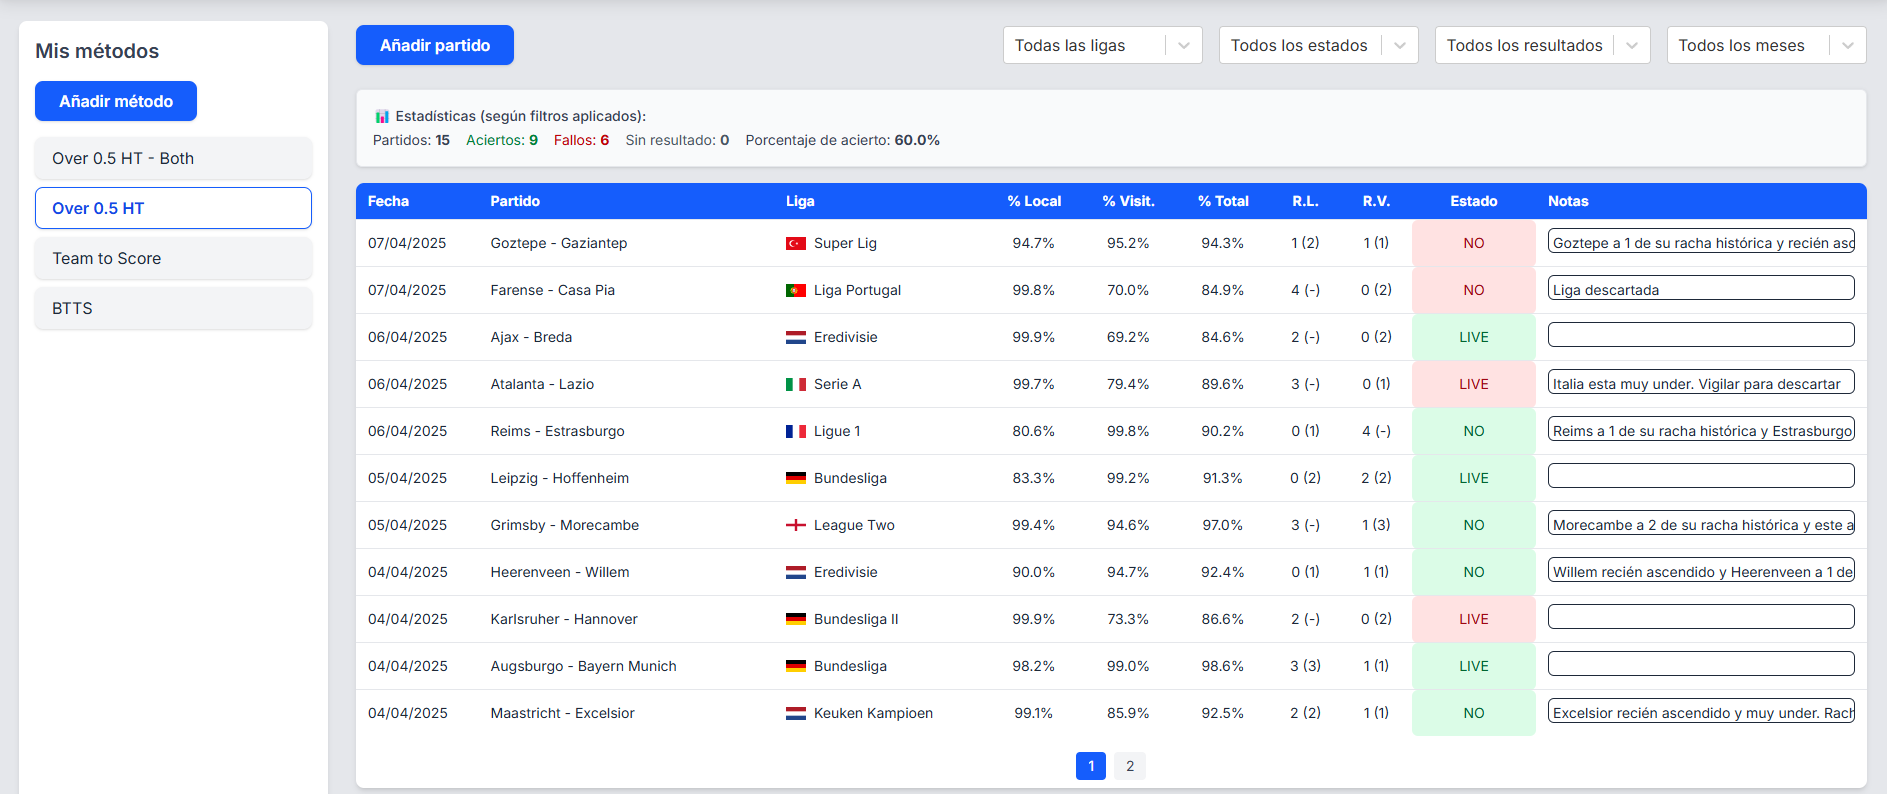
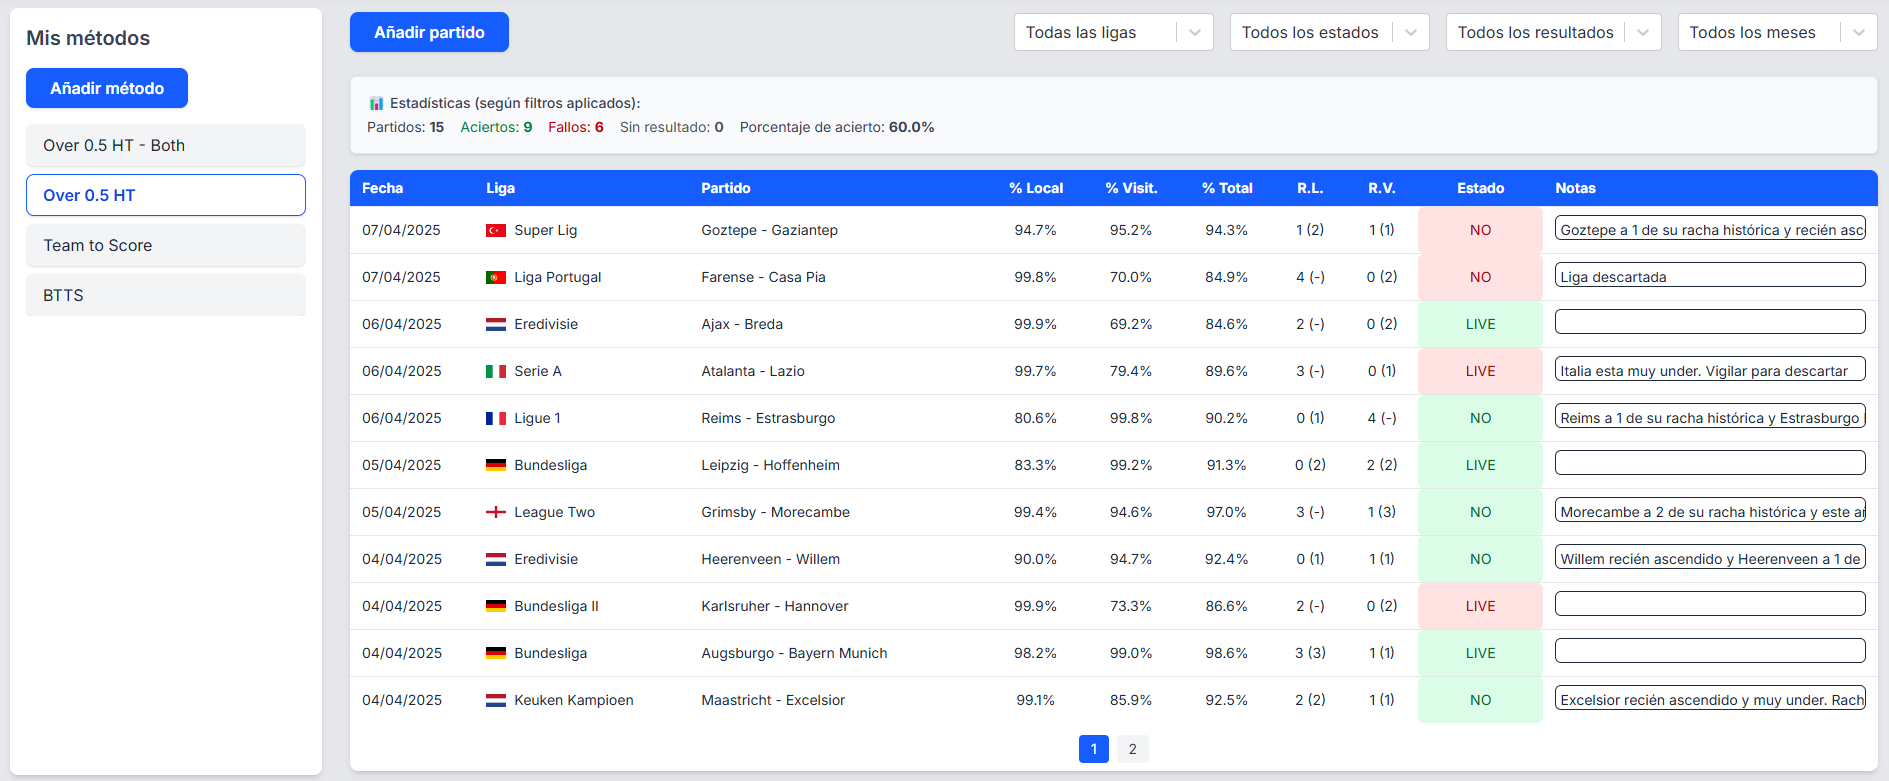
modificado scroll y vistas analisispage

diff --git a/frontend/src/components/MetodosList.tsx b/frontend/src/components/MetodosList.tsx
@@ -36,25 +36,28 @@ export default function MetodosList() {
       >
         Añadir método
       </button>
-      <ul className="space-y-2">
-        {metodos.map((metodo) => {
-          const isSelected = metodoSeleccionado?.id === metodo.id;
-          return (
-            <li key={metodo.id}>
-              <button
-                className={`w-full text-left px-4 py-2 rounded-lg shadow-sm border transition duration-200 ${
-                  isSelected
-                    ? "border-blue-600 text-blue-700 font-semibold bg-white shadow"
-                    : "bg-gray-100 text-gray-800 hover:bg-gray-200 border-transparent"
-                }`}
-                onClick={() => handleSelectMetodo(metodo)}
-              >
-                {metodo.nombre}
-              </button>
-            </li>
-          );
-        })}
-      </ul>
+      {/* Contenedor con scroll */}
+      <div className="max-h-150 overflow-y-auto space-y-2">
+        <ul className="space-y-2">
+          {metodos.map((metodo) => {
+            const isSelected = metodoSeleccionado?.id === metodo.id;
+            return (
+              <li key={metodo.id}>
+                <button
+                  className={`w-full text-left px-4 py-2 rounded-lg shadow-sm border transition duration-200 ${
+                    isSelected
+                      ? "border-blue-600 text-blue-700 font-semibold bg-white shadow"
+                      : "bg-gray-100 text-gray-800 hover:bg-gray-200 border-transparent"
+                  }`}
+                  onClick={() => handleSelectMetodo(metodo)}
+                >
+                  {metodo.nombre}
+                </button>
+              </li>
+            );
+          })}
+        </ul>
+      </div>
 
       <MetodoFormModal
         isOpen={showModalMetodo}

diff --git a/frontend/src/components/AnalisisWrapper.tsx b/frontend/src/components/AnalisisWrapper.tsx
@@ -17,12 +17,14 @@ function PartidosConMetodo() {
 export default function AnalisisWrapper() {
   return (
     <MetodoProvider>
-      <div className="flex flex-col xl:flex-row min-h-screen bg-gray-200 p-4 xl:p-6 gap-4 xl:gap-6">
-        <div className="w-full lg:w-1/6 bg-white rounded-lg shadow-md p-4">
-          <MetodosList />
-        </div>
-        <div className="flex-1">
-          <PartidosConMetodo />
+      <div className="min-h-[calc(100vh-8rem)] bg-gray-200">
+        <div className="flex flex-col xl:flex-row p-4 xl:p-6 gap-4 xl:gap-6">
+          <div className="w-full lg:w-1/6 bg-white rounded-lg shadow-md p-4">
+            <MetodosList />
+          </div>
+          <div className="flex-1">
+            <PartidosConMetodo />
+          </div>
         </div>
       </div>
     </MetodoProvider>

diff --git a/frontend/src/components/PartidosList.tsx b/frontend/src/components/PartidosList.tsx
@@ -509,7 +509,7 @@ export default function PartidosList() {
           </tbody>
         </table>
         {/* Controles de paginación */}
-        <div className="flex justify-center mt-4 gap-2 text-sm mb-2">
+        <div className="flex justify-center mt-3 gap-2 text-sm mb-2">
           {Array.from({ length: totalPaginas }, (_, i) => (
             <button
               key={i}
